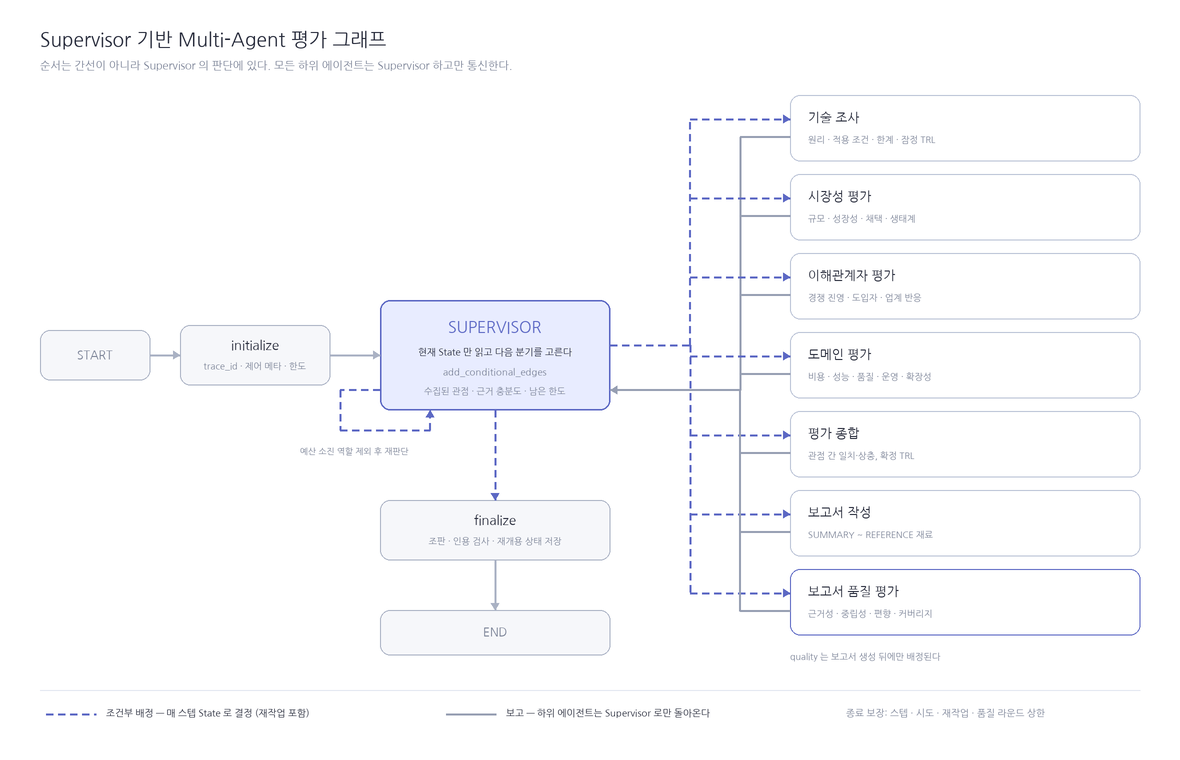
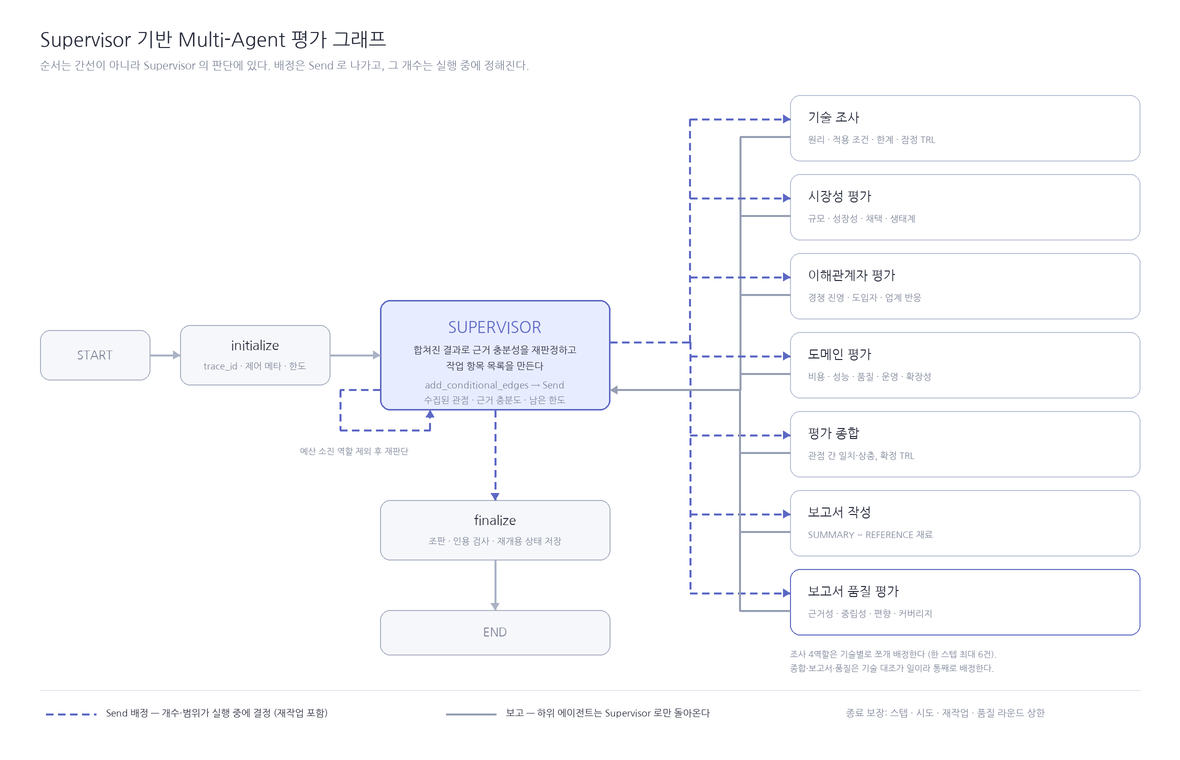
Keep the diagram caption inside the canvas

diff --git a/app/draw_architecture.py b/app/draw_architecture.py
@@ -138,7 +138,7 @@ def draw(output: Path) -> Path:
     text(
         d,
         (40, 60),
-        "순서는 간선이 아니라 Supervisor 의 판단에 있다. 모든 하위 에이전트는 Supervisor 하고만 통신한다.",
+        "순서는 간선이 아니라 Supervisor 의 판단에 있다. 배정은 Send 로 나가고, 그 개수는 실행 중에 정해진다.",
         11,
         MUTED,
     )
@@ -154,9 +154,10 @@ def draw(output: Path) -> Path:
     # 허브
     box(d, (380, 300, 610, 410), HUB_FILL, HUB_EDGE, width=3)
     text(d, (495, 327), "SUPERVISOR", 16, HUB_EDGE, anchor="mm")
-    text(d, (495, 352), "현재 State 만 읽고 다음 분기를 고른다", 9.5, INK, anchor="mm")
-    text(d, (495, 372), "add_conditional_edges", 9.5, MUTED, anchor="mm")
-    text(d, (495, 391), "수집된 관점 · 근거 충분도 · 남은 한도", 9, MUTED, anchor="mm")
+    text(d, (495, 350), "합쳐진 결과로 근거 충분성을 재판정하고", 9.5, INK, anchor="mm")
+    text(d, (495, 366), "작업 항목 목록을 만든다", 9.5, INK, anchor="mm")
+    text(d, (495, 385), "add_conditional_edges → Send", 9.5, MUTED, anchor="mm")
+    text(d, (495, 400), "수집된 관점 · 근거 충분도 · 남은 한도", 9, MUTED, anchor="mm")
     arrow(d, [(330, 355), (380, 355)], LINE)
 
     # 하위 에이전트
@@ -171,12 +172,20 @@ def draw(output: Path) -> Path:
         text(d, (left + 18, y + 40), detail, 9, MUTED)
         mid = y + box_h / 2
 
-        # 배정(조건부·동적)
-        arrow(d, [(610, 345), (690, 345), (690, mid - 9), (left, mid - 9)], DISPATCH, dashed=True)
+        # 배정 (Send · 개수가 실행마다 다름)
+        arrow(d, [(610, 342), (690, 342), (690, mid - 9), (left, mid - 9)], DISPATCH, dashed=True)
         # 보고(무조건) — Supervisor 로만 돌아온다
         arrow(d, [(left, mid + 9), (740, mid + 9), (740, 390), (610, 390)], RETURN)
 
-    text(d, (790, 95 + 7 * (box_h + gap) + 4), "quality 는 보고서 생성 뒤에만 배정된다", 9, MUTED)
+    caption_y = 95 + 7 * (box_h + gap) + 2
+    text(d, (790, caption_y), "조사 4역할은 기술별로 쪼개 배정한다 (한 스텝 최대 6건).", 8.5, MUTED)
+    text(
+        d,
+        (790, caption_y + 14),
+        "종합·보고서·품질은 기술 대조가 일이라 통째로 배정한다.",
+        8.5,
+        MUTED,
+    )
 
     # 종료 경로
     box(d, (380, 500, 610, 560), CODE_FILL, LINE)
@@ -201,7 +210,7 @@ def draw(output: Path) -> Path:
     _dashed_line(
         d, (46 * SCALE, (legend_y + 24) * SCALE), (96 * SCALE, (legend_y + 24) * SCALE), DISPATCH, 2
     )
-    text(d, (106, legend_y + 18), "조건부 배정 — 매 스텝 State 로 결정 (재작업 포함)", 9.5, INK)
+    text(d, (106, legend_y + 18), "Send 배정 — 개수·범위가 실행 중에 결정 (재작업 포함)", 9.5, INK)
     d.line(
         [(446 * SCALE, (legend_y + 24) * SCALE), (496 * SCALE, (legend_y + 24) * SCALE)],
         fill=RETURN,
